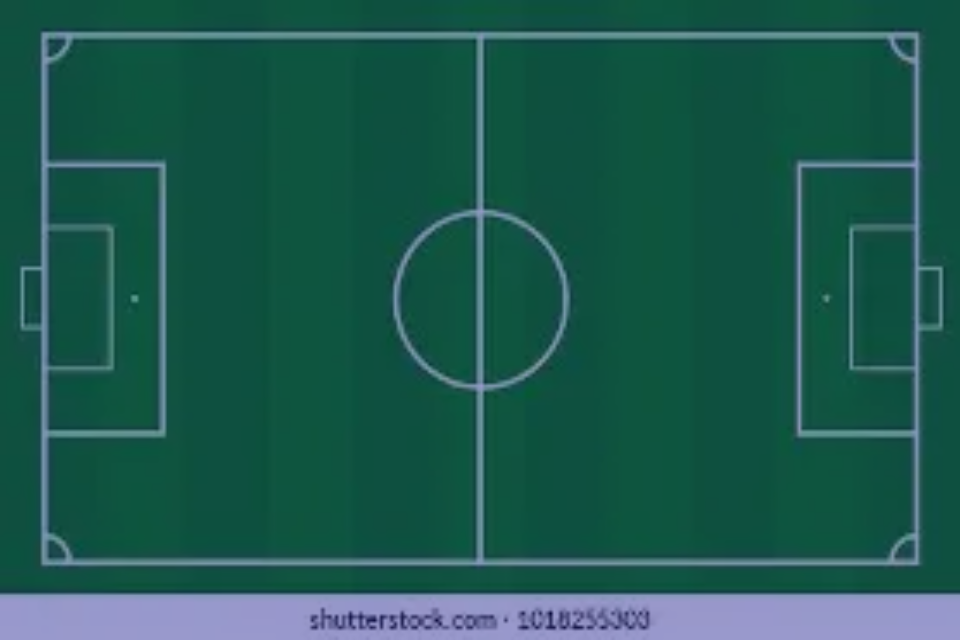
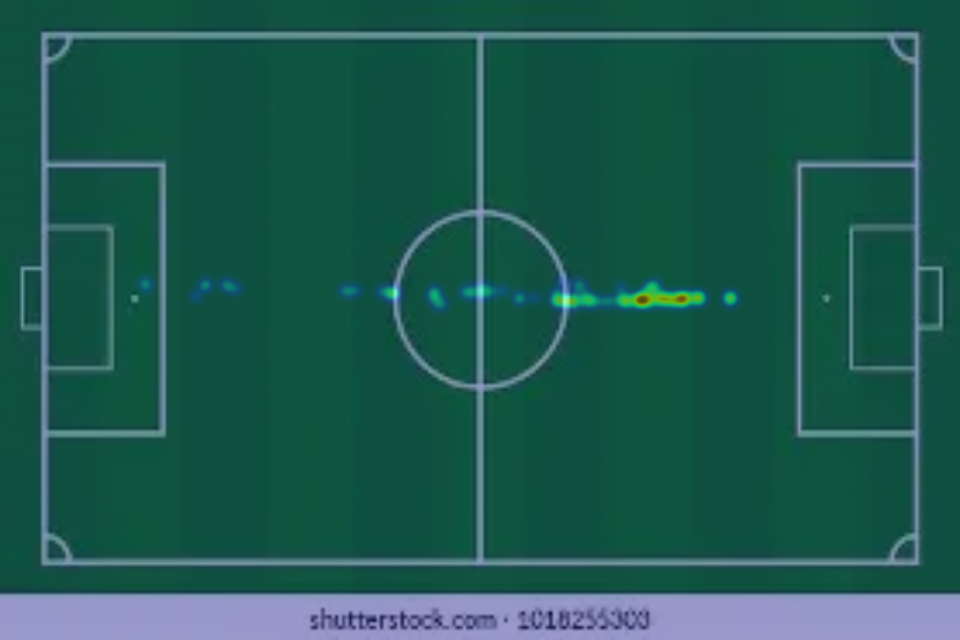
Readme File Updated.

Changed region(s): [[0.3438, 0.4375, 0.7812, 0.5], [0.1875, 0.4375, 0.25, 0.4688], [0.125, 0.4375, 0.1562, 0.4688]]

diff --git a/README.md b/README.md
@@ -11,8 +11,9 @@ ScoutAI is a computer vision-based analytics system for tracking football drills
 
 ## 🚀 Features
 * **Real-time Speed Tracking:** Measures velocity using calibrated cone distances.
-* **Body Lean Analysis:** Uses MediaPipe to detect agility angles.
-* **Touch Detection:** Detects contact between the feet and the ball.
+* **Body Lean Analysis:** Uses MediaPipe to detect agility angles and posture.
+* **Touch Detection:** Detects contact between the player’s feet and the ball.
+* **Player Heatmap Visualization:** Tracks all player positions and overlays a heatmap on a stadium image to show where the player spends most time.
 
 ## Setup Instructions
 ### Step 1: Create a Virtual Environment
